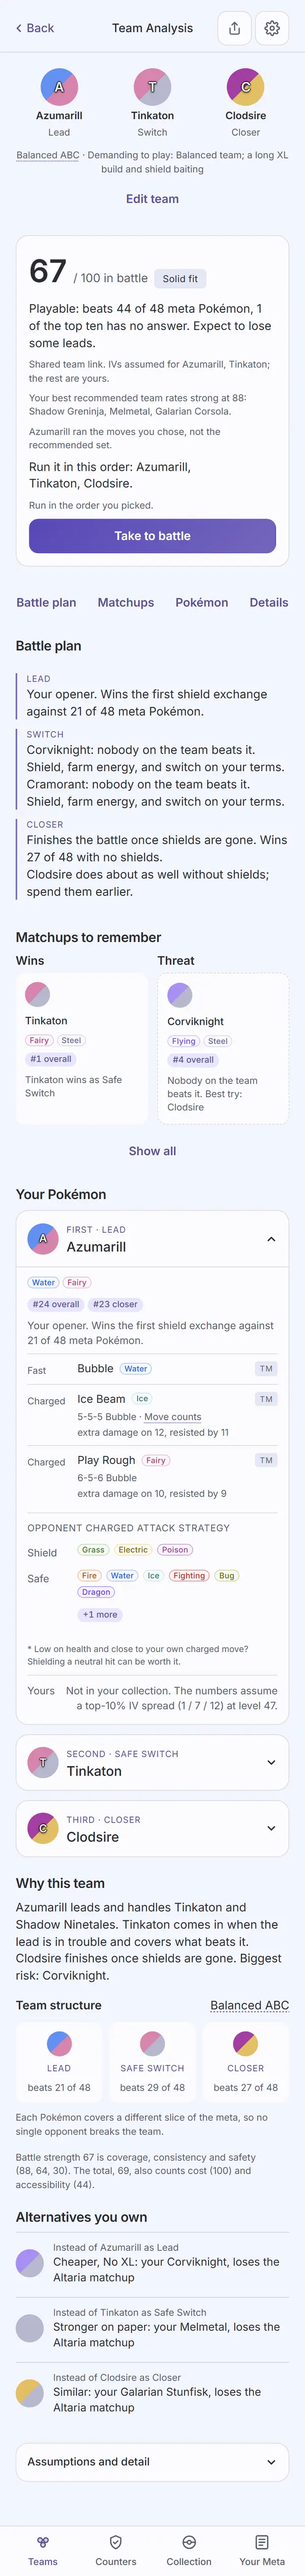
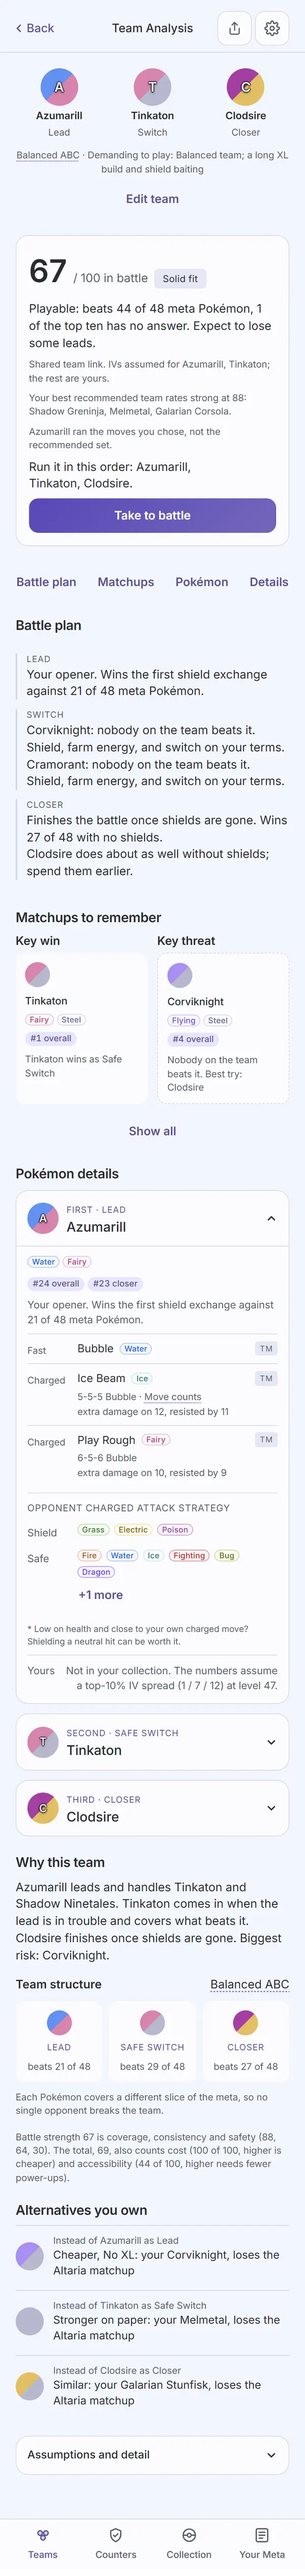
Design: Team Analysis record after the final review's fix wave
Fresh web:audit at 4cf5108 (exit 0, zero findings on the six enforced screens in both themes,
838 on screens not yet redesigned). The four full-page pairs changed and are re-converted
(600px, WebP quality 72); analysis-confirm and analysis-not-found re-converted byte identical.

I4: the text-levels tick names every size (17, 15, 14, 13, 12, 11px) and the 40px battle score
as a display exception for Travis; the 12px .meta deferral is carried to Open items in Build's
words. The strip-tap claim now cites its own browser check; the chips/tags tick describes "+N
more" as the text Button it now is; Rulings 3 and 6 record the controller's changes; the colors
tick names the carried violet read-only elements. M6: Ruling 1's wording, 23 shadowToken cases,
where the Share and Settings labels live, "between them" for the custom notes, and visible
changes outside the page (Button's ariaExpanded, the Progress boot label, Build's closed open
item, .mini's widths). New findings rows cite each fix commit. Sign-off stays unticked.

Claude-Session: https://claude.ai/code/session_01QpDSW9ZhLWToL3VMBP1mJq

diff --git a/docs/design/audits/analysis.md b/docs/design/audits/analysis.md
@@ -17,15 +17,18 @@ shows those instead; nothing on this branch touched sprite rendering itself.
 
 Dark and light at 390px, one pair per state, converted to WebP (600px wide, quality 72) the same
 way the Teams and Build images were, from `apps/web/screenshots/<name>-{dark,light}.png` (fresh
-`npm run web:audit` run, 2026-09-25, at commit `5ca9c4d`). `03-team-detail`, `14-custom-team`,
-`14b-custom-unranked` and `14c-shared-team` are full-page shots (`captureBeyondViewport: false`,
-the same rule Teams and Build use so the fixed tab bar lands at the true bottom); `analysis-confirm`
-and `analysis-not-found` are viewport shots (a sheet over the score card; a short Empty state).
+`npm run web:audit` run, 2026-09-25, at commit `4cf5108`, the final review's fix wave). The four
+full-page pairs changed in that wave and were re-converted; `analysis-confirm` and
+`analysis-not-found` re-converted byte for byte identical to the earlier images. `03-team-detail`,
+`14-custom-team`, `14b-custom-unranked` and `14c-shared-team` are full-page shots
+(`captureBeyondViewport: false`, the same rule Teams and Build use so the fixed tab bar lands at
+the true bottom); `analysis-confirm` and `analysis-not-found` are viewport shots (a sheet over the
+score card; a short Empty state).
 
 | State | Dark | Light |
 | --- | --- | --- |
-| `03-team-detail`: a recommended team (no rating card), battle score 88 "Strong fit," battle plan, matchups, all three Pokémon rows with the lead expanded, Team structure tiles, Alternatives, Assumptions open with the matchup grid (full page) | ![](img/03-team-detail-dark.webp) | ![](img/03-team-detail-light.webp) |
-| `14-custom-team`: a hand-built team of species you don't own, rating card with the hypothetical-IV note, the best-recommended-team note, the chosen-moves note and "Run it in this order" (full page) | ![](img/14-custom-team-dark.webp) | ![](img/14-custom-team-light.webp) |
+| `03-team-detail`: a recommended team (no rating card), battle score 88 "Strong fit," battle plan, matchups ("Key win" and "Key threat"), the three "Pokémon details" rows with the lead expanded and its "+1 more" text button, Team structure tiles, the score breakdown, Alternatives, Assumptions open with the matchup grid (full page) | ![](img/03-team-detail-dark.webp) | ![](img/03-team-detail-light.webp) |
+| `14-custom-team`: a hand-built team of species you don't own, rating card with the hypothetical-IV note, the best-recommended-team note, the chosen-moves note and "Run it in this order" once (full page) | ![](img/14-custom-team-dark.webp) | ![](img/14-custom-team-light.webp) |
 | `14b-custom-unranked`: a custom team led by Magikarp, the PvPoke-unranked note ("PvPoke does not rank Magikarp in Great League...") added to the same rating card (full page) | ![](img/14b-custom-unranked-dark.webp) | ![](img/14b-custom-unranked-light.webp) |
 | `14c-shared-team`: a team opened from a link, "Shared team link. IVs assumed for Azumarill, Tinkaton; the rest are yours." (full page) | ![](img/14c-shared-team-dark.webp) | ![](img/14c-shared-team-light.webp) |
 | `analysis-confirm`: Take to battle while Feraligatr, Morpeko, Galarian Stunfisk (3 logged) is running; the `ConfirmSheet` "Switch teams?" over the score card, Keep it and Switch | ![](img/analysis-confirm-dark.webp) | ![](img/analysis-confirm-light.webp) |
@@ -34,26 +37,39 @@ and `analysis-not-found` are viewport shots (a sheet over the score card; a shor
 Not captured: the "No hand-built team yet" flavor of not-found (same `Empty` component, a
 different first line and button, both string-driven, not a layout difference); the ABB line team
 structure (this branch's fixtures and the two enforced custom teams all land as Balanced ABC; the
-ABB block is unchanged markup carried over from before this task, per Task 3's report); ordinary
-scroll-to-open of a closed Pokémon row without the strip tap (the strip-tap path is what
-`teamDetail.test.tsx` and the jump-row browser check both exercise, and it is the same
-`scrollIntoView`/`open` mechanism a row's own head uses).
+ABB block is unchanged markup carried over from before this task, per Task 3's report); the
+strip tap's landing (not a picture, a measured browser check: `web:audit` taps the second strip
+member from the top of the page and requires `#pokemon-1` to land 0 to 24px under the header and
+open, see Automated checks; `teamDetail.test.tsx` checks which rows open); the Loading state
+(shared `Loading`, via `Progress`) and the recommendation error with Try again, which a reload or
+a pasted `#/teams/<id>` passes through while pick3 runs the recommendation: covered by
+`teamDetail.test.tsx` (Loading then the team, never the not-found line; a failed run shows the
+error once with Try again) and by `web:audit`'s real-reload check, but not captured, since the
+state lasts only as long as the run; the "pick3 tried all six orders" line, which appears only
+after Build's Find best order (every captured custom team was analyzed in the order picked).
 
 ## Automated checks
 
 - [x] `npm run web:audit` clean for this page's screens (listed in `AUDIT_ENFORCED`), re-run
-      2026-09-25 against `5ca9c4d`: exit 0. Zero findings on all six enforced Team Analysis
-      screens (`03-team-detail`, `14-custom-team`, `14b-custom-unranked`, `14c-shared-team`,
-      `analysis-confirm`, `analysis-not-found`), in both themes. 838 findings remain on screens
-      not yet redesigned (unchanged from Task 5's fix-wave run, since no source file changed after
-      it), none failing the run.
+      2026-09-25 against `4cf5108` (the final review's fix wave): exit 0. Zero findings on all six
+      enforced Team Analysis screens (`03-team-detail`, `14-custom-team`, `14b-custom-unranked`,
+      `14c-shared-team`, `analysis-confirm`, `analysis-not-found`), in both themes. 838 findings
+      remain on screens not yet redesigned (the same count as before the wave), none failing the
+      run.
 - [x] the run's own guards, all passed in this run:
   - `assertTitleCentred('team analysis')` holds on the Team Analysis header;
   - every jump button (Battle plan, Matchups, Pokémon, Details) lands its section's heading 0 to
     24px under the sticky header, starting from more than 24px under it, measured after waiting
     for the smooth scroll (or the instant jump under reduced motion) to stop moving (Task 5's
     Minor 1 fix; the run emulates `prefers-reduced-motion: reduce`, so it exercises the instant
-    path);
+    path); this run: 8.0, 8.1, 7.6 and 7.7px;
+  - a tap on the second strip member, from the top of the page, lands `#pokemon-1` 0 to 24px
+    under the sticky header (from 2028px below it to 7.9px under it in this run) and opens it
+    (`aria-expanded="true"`); against the old markup, with no scroll margin on the row, the same
+    check failed at -0.1px, under the header (final review I1);
+  - a real `page.reload()` of the recommended team's analysis renders the score card, not the
+    not-found state; against the old screen it failed with "This team is not in the current
+    results" (final review I2);
   - `analysis-confirm` throws if `.ui-confirm` never opens; Keep it leaves the running set alone
     and the analysis open, Switch closes it and lands on Log a battle's `.team-strip` (Task 4's
     behavior, Task 5's capture);
@@ -62,18 +78,19 @@ scroll-to-open of a closed Pokémon row without the strip tap (the strip-tap pat
     fix) rather than a silent 120s timeout;
   - `analysis-not-found`'s `.ui-empty` includes "not in the current results" (Task 5's Minor 2
     fix), not just any `Empty`;
-  - the "+N more" toggle is topmost at both its top and bottom edges by `elementFromPoint`, and
-    the Safe chips end at or above its top (Task 5's I2 fix: the toggle left the chip flow).
+  - the "+N more" toggle, found by its text among the `.safe-types` buttons, is topmost at both
+    its top and bottom edges by `elementFromPoint`, and the Safe chips end at or above its top
+    (Task 5's I2 fix: the toggle left the chip flow).
 - [x] no console errors: the run printed no "Browser errors" section.
 - [x] `npm run lint`, `npm run typecheck`, `npm test`, `npm run check-colors`, `npm run
-      check-tokens`, all run 2026-09-25 at `5ca9c4d` (no source change since Task 5's own run):
-      lint exit 0; typecheck exit 0 across all seven workspaces; `npm test` 133 files, 1,168 tests
-      passed; `check-colors` exit 0 (baseline untouched); `check-tokens`: ok.
-- [x] `npm run ui:audit` and `npm run meta:screens`: not re-run for this task. Nothing under
-      `packages/ui` or `apps/meta` changed after Task 5's own passing runs of both (Task 5's report:
-      "gallery audit: clean in dark and light" with the three self-checks; `meta:screens` exit 0),
-      and `git status` at the start of this task showed a clean tree outside this record's own new
-      images.
+      check-tokens`, all run 2026-09-25 at `4cf5108`: lint exit 0; typecheck exit 0 across all
+      seven workspaces; `npm test` 133 files, 1,173 tests passed; `check-colors` exit 0 (baseline
+      untouched); `check-tokens`: ok.
+- [x] `npm run ui:audit` re-run 2026-09-25 at `4cf5108`: exit 0, "gallery audit: clean in dark
+      and light", its three self-checks passing (they exit 1 on failure). `npm run meta:screens`:
+      not re-run; nothing under `packages/ui` or `apps/meta` changed in the fix wave (`Button`'s
+      `ariaExpanded` prop, the one `packages/ui` change on this branch, predates Task 5's passing
+      `meta:screens` run).
 
 ## Aesthetics
 
@@ -85,32 +102,66 @@ scroll-to-open of a closed Pokémon row without the strip tap (the strip-tap pat
       Build) hold on every disc shown, including Melmetal's single-type steel disc, Galarian
       Corsola's and Clodsire's split discs, and the Shadow-marked Greninja disc in `03-team-detail`.
       No pink appears: Team Analysis has no measured community data of its own, only PvPoke-ranked
-      and your-collection numbers.
-- [x] at most four text levels, one page title: one "Team Analysis" title in every capture
-      (`Header variant="sub"`). Levels visible across the captures: the page title; section heads
-      ("Battle plan," "Matchups to remember," "Your Pokémon," "Why this team," "Alternatives you
-      own"), unified at `--fs-section`/600, the same size Build's sections use; sub-headings within
-      a section ("Wins"/"Threat," "Lead"/"Switch"/"Closer," "Team structure") at 15px/600
-      (`h4.analysis-sub`, Task 5's fix so they read as one size, not the section heads' size);
-      body and explanation text (the battle-plan lines, the rating-card sentences, the move and
-      matchup reads); and small muted text (the role pill, the fit tag, the strip's role labels,
-      the Assumptions lines). A Pokémon row's own name is not a fifth level here: the Pokémon rows
-      use `ExpandRow`'s own summary text, not a filled card like Build's, so this page has no
-      exception to flag the way Build's kept 19px card name did.
+      and your-collection numbers. Those two checks cannot see roles, so by eye (final review M7):
+      violet marks what you tap (Edit team, the jump row, Show all, "+N more", Take to battle, the
+      Term underlines, the header buttons). The fix wave took violet off three read-only things
+      new or moved on this page: the battle plan's rail is `--divider`, its step titles
+      (Lead, Switch, Closer) `--muted`, and the keep-shield line plain `--text`. Three read-only
+      violet uses remain, all carried over unchanged from before this branch and named here for
+      Travis as precedent rather than fixed: the rank tags (`.mtag`, "#1 overall," "#9 charger"),
+      the role eyebrow (`.role`, "FIRST · LEAD," the Team structure tiles; signed Build uses the
+      same violet eyebrow), and the matchup grid's win cells (`.cell.w`, `--accent-tint2`).
+      Moving the first two reaches other pages (the rank tags also render on Collection,
+      Counters, Specimen and Add Pokémon; `.role` on Teams' open rows and Specimen), so each is
+      an app-wide call. The win cells are this page's own (the Assumptions grid is their only
+      user), left as they were because the fix wave had no ruling on them; recoloring them to an
+      outcome color is a one-rule change if Travis wants it.
+- [x] at most four text levels, one page title, **with one display exception for Travis to
+      accept or refuse, and the 12px `.meta` size deferred (see Open items)**: one "Team
+      Analysis" title in every capture (`Header variant="sub"`, 15px/500). The levels, by size,
+      as the CSS sets them and the captures show them:
+  - heads: section heads ("Battle plan," "Matchups to remember," "Pokémon details," "Why this
+    team," "Alternatives you own") at `--fs-section` (17px)/600, the size Build's sections use;
+    a Pokémon row's name (`.pd-summary-name`) is the same `--fs-section` at 500;
+  - body at `--fs-body` (15px): the battle-plan lines, the score card's sentences, the Why this
+    team paragraph; sub-headings inside a section ("Key win"/"Key threat," "Key wins"/"Key
+    threats," "When to switch," "Team structure") are the same 15px at 600
+    (`h4.analysis-sub`), a weight step, not a size step. Three carried 14px texts sit just under
+    it: the move names (`.move-name`), Alternatives' main lines and the "Assumptions and detail"
+    head, the same shared markup as before this branch;
+  - supporting text at two sizes that sit side by side: 13px (`.small`: a row's role job, the
+    keep-shield line, the empty lines such as "No other Pokémon in your collection fits these
+    slots yet"; `.assump-body`: the Assumptions lines) and 12px (`.meta`: the score card's
+    notes, the strip's supporting line, the score breakdown, Alternatives' "Instead of" lines,
+    the grid legend; also the move counts and reads, `.move-sub`, the move kind, the fit tag and
+    "Opponent charged attack strategy"). That 12/13px pair is the class Build's final review
+    raised as M10; it is not fixed page by page, and it is carried to Open items in Build's own
+    words;
+  - labels at 11px (`--fs-label` or a literal 11px): the plan step titles, the role eyebrows,
+    the type chips, the rank tags, and the shield note under the Safe types ("* Low on health
+    and close to your own charged move? ...").
+      So the page reads as four levels (heads, body, supporting, labels), but the sizes are
+      more than four: 17, 15, 14, 13, 12 and 11px, the 14/13/12px spread being carried shared
+      markup that the app-wide `.meta` pass should settle. The exception: the battle score
+      itself, "88" in `03-team-detail`, is 40px/700 (`.score-num`), the page's one display
+      number, bigger than any heading on purpose because it is the headline Travis asked for
+      (score.battle, 2026-09-23). It is a level the four-level rule does not allow, named here for
+      Travis to keep or cut the way Build's 19px card name was.
 - [x] one filled primary button: every capture shows exactly one `Button variant="primary"`
       ("Take to battle") inside the score card, whether the team is recommended (`03-team-detail`)
       or custom (`14-custom-team`, `14b-custom-unranked`, `14c-shared-team`); `analysis-confirm`
       adds the sheet's own primary ("Switch") and secondary ("Keep it"), a `ConfirmSheet` pattern
       already audited elsewhere, not a second page-level primary. `analysis-not-found`'s "Back to
       teams" is an outlined button, not filled.
-- [x] chips tapped, tags read: type chips, meta-rank tags, the "TM"/"Elite TM" badges, the role
-      pills on the strip and the Term-underlined words (Elite TM, XL Candy, IV rank, Move counts,
-      ABB line, Balanced ABC) are read-only labels or definition popovers, never a pressable
-      filter. The one interactive control that looks chip-like, "+N more" among the Safe types, is
-      a real 44px `Button` (`.more-chip`), named by its text, not a chip; Task 5 moved it out of
-      the chip row specifically so it would not be mistaken for one and would not overlap a chip's
-      tap target (`03-team-detail`, `14-custom-team`: "+1 more" sits on its own line under the
-      chips).
+- [x] chips tapped, tags read: type chips, meta-rank tags, the "TM"/"Elite TM" badges, the fit
+      tag and the Term-underlined words (Elite TM, XL Candy, IV rank, Move counts, ABB line,
+      Balanced ABC) are read-only labels or definition popovers, never a pressable filter, and
+      nothing on the page is a chip you tap. "+N more" among the Safe types used to be a bare
+      button wrapping the rank-tag pill (`.mtag`), so a control looked exactly like "#9 charger"
+      (final review I3). It is now the ui `Button`, variant text, with `aria-expanded` and the
+      labels "+N more" / "Show fewer", the same control as Matchups' "Show all": violet
+      15px/600 text, no pill, on its own line under the chips with its full 44px height
+      (`03-team-detail`, `14-custom-team`, `14c-shared-team`: "+1 more" under the Safe chips).
 - [x] the right header variant: every capture uses `Header variant="sub"`, Back on the left,
       Share (`ShareGlyph`, only when a team exists) and Settings `IconButton`s on the right, as on
       Build; `assertTitleCentred` confirms the title stays centred after Task 4's `.hdr-actions`
@@ -129,13 +180,13 @@ scroll-to-open of a closed Pokémon row without the strip tap (the strip-tap pat
       that reaches the token wrapper itself, not just its colors) removes a 3.5px vertical
       misalignment between a Shadow disc and its plain neighbours, checked by eye against the
       signed Teams and Build captures (matching page heights, per Task 5's report) and by
-      `shadowToken.test.tsx`'s 22 cases (18 types x contrast, plus the wrapper-class and marker
-      checks). No CSS or component that draws a sprite changed on this branch.
+      `shadowToken.test.tsx`'s 23 cases (3 + 2 + 18: the audit marker and the wrapper box, the glow
+      layers, 18 types x contrast). No CSS or component that draws a sprite changed on this branch.
 - [x] at most one line of text before the first result: under the strip, one line (structure `Term`
       + "Demanding to play: why") sits above "Edit team," then the score card is the first result.
-      "Battle plan," "Matchups to remember" and "Your Pokémon" each open directly on their content
-      (the collapsed Wins/Threat pair; the first `ExpandRow`), with no extra sentence above it.
-      `analysis-not-found` has exactly the one line the state needs.
+      "Battle plan," "Matchups to remember" and "Pokémon details" each open directly on their
+      content (the collapsed Key win/Key threat pair; the first `ExpandRow`), with no extra
+      sentence above it. `analysis-not-found` has exactly the one line the state needs.
 - [x] light as readable as dark: every state above is a matched dark/light pair; `web:audit`'s
       per-theme contrast pass is clean on all six in both themes; the `ConfirmSheet` and `Empty`
       states read the same way in both (checked by eye in `analysis-confirm` and
@@ -149,9 +200,13 @@ scroll-to-open of a closed Pokémon row without the strip tap (the strip-tap pat
     your IVs, level, IV rank, cost to build): all present in `03-team-detail`'s open Shadow
     Greninja row and reachable on the other two rows.
   - Custom team rating card (fit and battle score, why, comparison with the best recommended team,
-    the order result, chosen moves, assumed IVs, the PvPoke-unranked note): `14-custom-team` and
-    `14b-custom-unranked` show every one of these notes at once, in the order `ScoreCard.tsx`
-    composes them (Task 2's report).
+    the order result, chosen moves, assumed IVs, the PvPoke-unranked note): between them
+    `14-custom-team`, `14b-custom-unranked` and `14c-shared-team` show every note but one, in the
+    order `ScoreCard.tsx` composes them (Task 2's report); `14-custom-team` has no unranked note
+    and `14b-custom-unranked` no chosen-moves note. The one not captured is the orders-tried
+    line ("pick3 tried all six orders. Best: ... Weakest: ..."), which appears only after Build's
+    Find best order; the ScoreCard test covers it, and (Ruling 3, as changed) a card with only
+    the picked order tried says the order once, in "Run it in this order: ..."
   - Two team shapes (Balanced ABC tiles, ABB line panel): `WhyThisTeam.tsx` renders both branches
     unchanged from today's markup (Task 3); every capture here happens to land on Balanced ABC,
     since none of the enforced teams' fixtures produce an ABB line.
@@ -166,7 +221,9 @@ scroll-to-open of a closed Pokémon row without the strip tap (the strip-tap pat
     payload change on this branch.
 - [x] every control does what its label says: the strip opens a row and scrolls to it without
       closing another (`teamDetail.test.tsx`'s strip test, five assertions: row 2 opens, row 1 and
-      3 keep their state, `scrollIntoView` ran on `#pokemon-1`, a second tap keeps it open); the
+      3 keep their state, `scrollIntoView` ran on `#pokemon-1`, a second tap keeps it open; and
+      the browser check above, which measures the opened row landing 7.9px under the header);
+      "+N more" / "Show fewer" opens one row's Safe list only (`analysisComponents.test.tsx`); the
       jump row scrolls its own section under the header (the browser check above); "Show all"
       expands Matchups' full lists and toggles its own `aria-expanded` without affecting the other
       sections; "Edit team" loads the three picks into Build (`teamDetail.test.tsx`'s "Edit team
@@ -179,36 +236,41 @@ scroll-to-open of a closed Pokémon row without the strip tap (the strip-tap pat
       team link's own landing entry now replaces itself (`navigate(route, { replace: true })` via
       `history.ts`'s `replaceEntry`) instead of staying in history, which closed the back-gesture
       loop through `#/t/...` that Task 4's first pass introduced and its fix round removed at the
-      root. `teamDetail.test.tsx`'s twelve original cases plus the "Team Analysis from a team link"
-      describe block (three cases: the landing replaces itself and stays first, Back lands on
-      Teams, Edit team then Analyze again lets Back return to Build) and `history.test.ts`'s
-      `replaceEntry` case all cover it.
+      root. `teamDetail.test.tsx`'s main block (seventeen cases after the fix wave) plus the
+      "Team Analysis from a team link" describe block (three cases: the landing replaces itself
+      and stays first, Back lands on Teams, Edit team then Analyze again lets Back return to
+      Build) and `history.test.ts`'s `replaceEntry` case all cover it.
 - [ ] input layout rule: not applicable. Team Analysis has no text input.
 - [x] icon buttons named; focus visible: Share carries the label "Share this team," Settings
-      "Settings" (`Header.tsx`, unchanged); the jump row is a `nav` labeled "Jump to" with four
-      named text `Button`s; the strip members and the "+N more" toggle are named buttons, not bare
-      icons; the shared `Button`/`IconButton` focus-visible outline is the one audited on other
-      pages (gallery record), unchanged here.
+      "Settings" (the `IconButton`s in `TeamDetail.tsx`'s own header); the jump row is a `nav`
+      labeled "Jump to" with four named text `Button`s; the strip members and the "+N more"
+      toggle are named buttons, not bare icons; the shared `Button`/`IconButton` focus-visible
+      outline is the one audited on other pages (gallery record), unchanged here.
 - [x] product rules: assumptions shown (the Assumptions block; the rating card's hypothetical-IV,
       unranked and shared-link notes); collection stays on the device (Team Analysis makes no
       request that carries collection data; Share sends species and moves only, unchanged CSP);
       sharing copy not applicable (no sharing toggle lives on this screen; the "shared" word here
       means a team link, not the battle-log sharing setting).
-- [x] tests cover the new behavior: `apps/web/test/analysisComponents.test.tsx` (ScoreCard,
-      BattlePlan, Matchups, PokemonDetails, WhyThisTeam), `apps/web/test/teamDetail.test.tsx` (the
-      screen: not-found, headline, jumps, strip, Take to battle in all three running-set cases,
-      Edit team, Back with and without history, the team-link describe block, the rounded score
-      breakdown, the reduced-motion jump), `apps/web/test/history.test.ts` (`replaceEntry`),
+- [x] tests cover the new behavior: `apps/web/test/analysisComponents.test.tsx` (ScoreCard with
+      one order line or the tried-orders line, BattlePlan, Matchups with its "Key win"/"Key
+      threat" heads and the no-wins line, PokemonDetails with "+N more" as a text Button,
+      WhyThisTeam's higher-is-better breakdown), `apps/web/test/teamDetail.test.tsx` (the
+      screen: not-found after a run, Loading then the team on a fresh load, the failed run with
+      Try again and no loop, headline, jumps, strip, Take to battle in all three running-set
+      cases, Edit team, Back with and without history, the team-link describe block, the rounded
+      score breakdown, the reduced-motion jump), `apps/web/test/history.test.ts` (`replaceEntry`),
       `apps/web/test/format.test.ts` (`costParts`), `apps/web/test/shadowToken.test.tsx` (the
       token-wrapper alignment fix), `packages/engine/test/analyze.test.ts` (Ruling 1's
       battle-first order sort).
 
 ## The plan's rulings, with their costs
 
-1. **Tried orders sort by battle strength**, ties by total (`compareTeamScores`), so "Run it in
-   this order" and Build's Find best order pick the strongest order, matching the Teams list and
-   the battle headline. [Cost if wrong: one sort line and a field.] Landed in Task 1 (`18ce875`);
-   `OrderTried` gained `battle`; `analyze.test.ts` pins the battle-first order.
+1. **Tried orders sort by battle strength**, ties by total (`compareTeamScores`), so "pick3 tried
+   all six orders. Best: ..." and Build's Find best order pick the strongest order, matching the
+   Teams list and the battle headline. [Cost if wrong: one sort line and a field.] Landed in Task
+   1 (`18ce875`); `OrderTried` gained `battle`; `analyze.test.ts` pins the battle-first order.
+   "Run it in this order" is not what this ruling moves: Analyze runs `order: 'given'`, so that
+   line prints the order the team is in, the picked order for a custom team (final review M6).
 2. **Back:** a custom team falls back to Build, a recommended team to Teams; a shared link opened
    fresh falls back to Teams. Edit team is a separate labeled text action under the strip. [Cost if
    wrong: fallback routes.] Landed across Task 4's two commits: the first pass special-cased a
@@ -217,7 +279,12 @@ scroll-to-open of a closed Pokémon row without the strip tap (the strip-tap pat
    every path and the ruling holds without a special case.
 3. **"Run it in this order: A, B, C."** shows on every score card; custom teams add today's
    orders-tried line under it. [Cost if wrong: one line.] `ScoreCard.tsx` (Task 2); visible on all
-   four score cards captured.
+   four score cards captured. **Changed by the controller after the final review flagged it:** a
+   custom card with only the picked order tried read "Run it in this order: A, B, C." and then
+   "Run in the order you picked.", the same thing twice. The second line is dropped; the
+   tried-orders line stays when more than one order was tried (`a3636e6`; the ScoreCard tests
+   pin both cases). `14-custom-team`, `14b-custom-unranked` and `14c-shared-team` now say the
+   order once.
 4. **The strip keeps one supporting line**: structure as a `Term` and "Demanding to play: why," as
    on Teams' open row. [Cost if wrong: one line.] Visible under the strip on every capture.
 5. **Jump buttons are text `Button`s** in one row (Battle plan, Matchups, Pokémon, Details); each
@@ -228,8 +295,13 @@ scroll-to-open of a closed Pokémon row without the strip tap (the strip-tap pat
    total, T, also counts cost (C) and accessibility (A)." with the factor numbers. [Cost if wrong:
    copy.] `WhyThisTeam.tsx` (Task 3); Task 5's review found the factors and total printed as raw
    decimals ("56.3," "71.7") beside a rounded headline, fixed by rounding every number in the line
-   the same way the headline is rounded (`03-team-detail` now reads "(99, 56, 100). The total, 72,
-   ... cost (0) and accessibility (60)").
+   the same way the headline is rounded. **Changed by the controller after the final review
+   flagged it:** "cost (0)" meant the most expensive build but read as "costs nothing". In
+   `score.ts` cost is 100 for the cheapest of the finalists and 0 for the most expensive, and
+   accessibility falls with the power-up steps left, so both now say which way is better:
+   `03-team-detail` reads "The total, 72, also counts cost (0 of 100, higher is cheaper) and
+   accessibility (60 of 100, higher needs fewer power-ups)." (`a3636e6`; the WhyThisTeam and
+   TeamDetail tests pin the sentence).
 7. **`StructureTag` and `GLOSSARY['line']` are removed** once TeamDetail stops using them; the
    structure is a `Term` like Teams. [Cost if wrong: none.] `StructureTag` deleted in Task 4 (no
    remaining user); `GLOSSARY['line']` did not exist at HEAD, so there was nothing to delete.
@@ -255,6 +327,12 @@ scroll-to-open of a closed Pokémon row without the strip tap (the strip-tap pat
 | Task 5 review minors: the jump check could pass with no button ever found or with an overshoot; the not-found check only looked for `.ui-empty`, not its line; the SEP regression test skipped "Opponent weights"; two pre-existing polish items were noted for the record (see Open items). | The jump check throws when no button matches the label, and asserts the heading starts more than 24px under the header and lands 0-24px under it after motion stops (this caught a real bug, see the next row); the not-found check requires the "not in the current results" text; "Opponent weights" added to the SEP test loop. | `5ca9c4d` |
 | Seen only by the stricter jump check above: every jump always scrolled `smooth`, so a long jump (Details, 205px still moving after 500ms) could still be in flight when a screenshot or a fast check ran next. | `scrollToId` uses `auto` under `prefers-reduced-motion: reduce` and `smooth` otherwise; a new test exercises the reduced-motion path; `web:audit` emulates the reduced-motion media query, so the enforced run takes the instant path. | `5ca9c4d` |
 | Seen in the captures, not caught by axe (Task 5): `.strategy-note`/`.ogrid-rank` on `--faint` and `.ogrid .cell.w` failed contrast; the jump row wrapped to two lines at 390px; section heads and their sub-headings shared one size; an open row's body sat flush against its own top divider; a Shadow token sat 3.5px off its plain neighbours; the Wins/Threat cards had uneven heights; the Assumptions card had no border; the switch sheet's "(3 logged)" broke across two lines. | `.strategy-note`/`.ogrid-rank` to `--muted`, `.ogrid .cell.w` to `--text`; the jump row's buttons lost their side padding so all four fit on the gutter; sections at `--fs-section`/600, sub-headings at a new `h4.analysis-sub` (15px/600); 12px of top padding on an open row's body; every `PokemonToken` wrapper is now `.token-wrap { display: inline-flex; flex: none }` (reaches Teams and Build too, see below); `.matchup-cols .mini { flex: 1 }`; the Assumptions card gets the `ExpandRow`s' own border and radius; the count and "logged" joined by a non-breaking space. | `01ff080` |
+| Final review I1: a strip tap scrolled its Pokémon row under the sticky header (the row wrapper had no scroll margin), and this record credited a browser check that only covered the jump buttons. | The wrapper is `.pd-row` and shares the jump headings' derived `scroll-margin-top` (`.analysis-section, .pd-row`); `screens.mjs` taps the second strip member and requires `#pokemon-1` 0 to 24px under the header and open (it failed at -0.1px before the fix, lands 7.9px after). | `2bbd3ba` |
+| Final review I2: a reload or pasted `#/teams/<id>` showed a false "not in the current results" that never cleared; only Teams ran the recommendation, and the spec's shared Loading state was not built. | TeamDetail runs the recommendation with Teams' own guard and shows the shared `Loading` (through `Progress`) while game data, the saved collection or the run is pending, or a custom analysis is running; a failed run shows `ErrorState` with Try again and never reruns by itself. `Progress` gains a "boot" label. Tests: Loading then the team with no not-found in between, not-found after a run, the error once and Try again; `screens.mjs` reloads the analysis for real and requires the score card (it failed with the not-found line before the fix). | `07c3f91` |
+| Final review I3: "+N more" was the read-only rank-tag pill (`.mtag`) inside a bare button, so a control looked like a label. | The ui `Button`, variant text, `aria-expanded`, "+N more" / "Show fewer", like Matchups' "Show all"; `.more-chip` rules deleted; `.safe-types` keeps it on its own line with no side padding. Test asserts the text-button class, no `.mtag`, `aria-expanded` both ways; `screens.mjs` finds it by text. | `ba5894e` |
+| Final review I4 and M6, record claims: the text-levels tick left out the 40px score and the 12/13/11px sizes; the strip-tap claim, the chips/tags tick, Ruling 1's wording, the shadowToken count (23, not 22), where the Share and Settings labels live, "every one of these notes at once", and the missing `Button` `ariaExpanded` and closed Build open item under visible changes. | The text-levels tick names every size and the 40px score as a display exception for Travis; the `.meta` 12px deferral is carried to Open items in Build's words; every other claim corrected in place. | this record's commit |
+| Final review flags, ruled by the controller: Ruling 3 ("Run in the order you picked." repeated the order line) and Ruling 6 ("cost (0)" read as free). | See Rulings 3 and 6 above. | `a3636e6` |
+| Final review M1, M2, M3, M4, M5, M7. M1: `.custom-note`'s left bar never drew (overridden by `.score-card`'s border). M2: "Wins" (plural) over one card, "Threat" (singular), and nothing under "Wins"/"Key wins" when the engine returns no key wins. M3: "Your Pokémon" over rows that say "Not in your collection". M4: 17px and 11px literals where tokens exist. M5: `.mini`'s fixed widths from the retired scroll rows and a stale comment. M7: violet on read-only things. | M1: rule deleted, class kept as a hook. M2: "Key win"/"Key threat" and a muted no-wins line, collapsed and expanded (two tests). M3: "Pokémon details". M4: `--fs-section`, `--fs-label`. M5: widths removed from `.mini` and `.mini.threat`, the overrides' width lines and the comment gone. M7: plan rail `--divider`, plan titles `--muted`, keep-shield line plain text; the carried violet rank tags, role eyebrow and win cells are named in the colors tick. | `4cf5108` |
 
 ## Visible changes outside Team Analysis
 
@@ -287,6 +365,21 @@ scroll-to-open of a closed Pokémon row without the strip tap (the strip-tap pat
   `costLine` assertions in `format.test.ts` staying green through the rewrite.
 - **`ShareButton` is gone; `ShareGlyph` plus the shared `IconButton` renders Share everywhere it
   used to.** A repo-wide grep in Task 4 found no other caller before it was deleted.
+- **`Button` in `packages/ui` gained an optional `ariaExpanded` prop** (Task 3, for Matchups'
+  "Show all"; now also the Assumptions grid's "Show all 46 meta Pokémon" and "+N more"). It only
+  adds `aria-expanded` when a caller passes it, and only Team Analysis's three toggles do;
+  `apps/meta`, which imports `Button`, passes it nowhere, so no other page or site changes.
+- **`Progress` has a label for the "boot" stage, "Loading game data".** Teams already passed
+  `stage="boot"` while game data loads and printed the raw word "boot"; the fix wave's Team
+  Analysis Loading state reuses the same call, so both now read "Loading game data".
+- **Build's carried-forward open item is closed.** Build's record left "`TeamDetail`'s own ' · '
+  spacing" (a dot that could start a line in the hand-written cost wrapper) for this plan;
+  `PokemonDetails`' To-build line now joins with `SEP` from `format.ts`, which keeps each dot
+  with the word before it, and the Assumptions lines do the same (the SEP test in
+  `teamDetail.test.tsx`).
+- **`.mini` lost its fixed 150px/170px widths** (final review M5). Its only remaining user is
+  this page's Matchups, whose overrides already set the width, so nothing outside Team Analysis
+  moves.
 
 ## Open items for Travis (not fixed on this branch)
 
@@ -297,13 +390,24 @@ scroll-to-open of a closed Pokémon row without the strip tap (the strip-tap pat
   - The Assumptions block says "48 Pokémon" (`a.metaSize`) a few lines above "Show all 46 meta
     Pokémon" (the deduplicated count); both numbers are real, just two different counts of the
     same meta group.
-  - On `14c-shared-team`, the score card reads "Azumarill ran the moves you chose" and "Run in the
-    order you picked," but the sender of the link chose both, not the person viewing this capture.
-- **The spacing around "+N more" (optional polish, Task 5's review).** The pill sits centred in its
-  44px target, so the Safe block ends with visibly more air under it than the Shield-to-Safe gap
-  above it. The review's suggested fix (`align-items: flex-start; padding-top: 6px`, extending the
-  target only downward into already-empty space) was not applied; the `elementFromPoint` check
-  would still hold either way.
+  - On `14c-shared-team`, the score card reads "Azumarill ran the moves you chose," but the
+    sender of the link chose them, not the person viewing this capture. ("Run in the order you
+    picked," the other half of this note, is gone with Ruling 3's change.)
+- **The battle score's 40px size (final review I4)**: the one display exception on this page,
+  see the text-levels tick under Aesthetics. Keep it, or bring it down to a heading size.
+- **Team Analysis's supporting text stays at 12px (final review I4, as Build's M10), deferred.**
+  The foundation spec ("Type") moves `.meta` from 12px to `--fs-support` (13px) when its page is
+  redesigned. Team Analysis's score card notes, strip line, score breakdown, Alternatives'
+  "Instead of" lines and grid legend are all still `.meta` at 12px, the same as on the signed
+  Teams and Build pages. The 13px supporting size lands in one app-wide pass later, not page by
+  page, so Teams, Build and Team Analysis move together.
+- **The violet read-only elements carried over** (rank tags, the role eyebrow, the matchup grid's
+  win cells), named in the colors tick: an app-wide call for the first two, a one-rule change
+  for the third.
+
+The spacing around "+N more" that Task 5's review left open here is settled: the toggle is now
+the standard text `Button`, the same 44px control as "Show all", so the air around it is that
+control's own, not a pill centred in a bigger box.
 
 ## Sign-off
 
